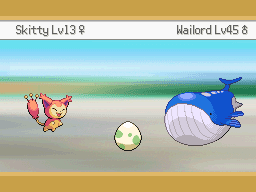
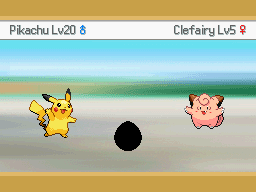
Essentials v20 compatible

diff --git a/Script.rb b/Script.rb
@@ -1,145 +1,229 @@
 #===============================================================================
-# * One screen Day-Care Checker item - by FL (Credits will be apreciated)
+# * Single Screen Day-Care Checker Item - by FL (Credits will be apreciated)
 #===============================================================================
 #
-# This script is for Pokémon Essentials. It makes an One screen Day-Care Checker
-# (like in DPP) activated by item. This display the pokémon sprite, names,
-# levels, genders and if them generate an egg.
+# This script is for Pokémon Essentials. It makes a single screen Day-Care 
+# Checker (like in DPP Pokétch) activated by item. This displays the pokémon
+# sprites, names, levels, genders and if they generated an egg.
 #
-#===============================================================================
+#== INSTALLATION ===============================================================
 #
-# To this script works, put it above main, put a 480x320 background in
-# DCCBACKPATH location and, like any item, you need to add in the "items.txt"
-# and in the script. There an example below using the name DAYCARESIGHT, but
-# you can use any other name changing the DCCITEM and the item that be added in
-# txt. You can change the internal number too:
+# To this script works, put it above main OR convert into a plugin. Put a 
+# 512x384 background in "Graphics/Pictures/day_care_checker_bg" and add into
+# PBS\items.txt:
 #
-# 631,DAYCARESIGHT,DayCare Sight,DayCare Sight,8,0,"A visor that can be use for see certains Pokémon in Day-Care to monitor their growth.",2,0,6
+# In Essentials version 20 or above:
+#
+#  [DAYCARESIGHT]
+#  Name = Day-Care Sight
+#  NamePlural = Day-Care Sights
+#  Pocket = 8
+#  Price = 0
+#  FieldUse = Direct
+#  Flags = KeyItem
+#  Description = A visor that can be use to see Pokémon in Day-Care to monitor their growth.
+#
+# In v16.2-v19.1:
+#
+#  631,DAYCARESIGHT,Day-Care Sight,Day-Care Sights,8,0,"A visor that can be use to see Pokémon in Day-Care to monitor their growth.",2,0,6
+#
+# In v15 or below:
+#
+#  631,DAYCARESIGHT,DayCare Sight,8,0,"A visor that can be use to see Pokémon in Day-Care to monitor their growth.",2,0,6
 #
 #===============================================================================
 
-DCCITEM=:DAYCARESIGHT # Change this and the item.txt if you wish another name
-DCCBACKPATH= "Graphics/Pictures/dccbackground" # You can change if you wish
-
-class DayCareCheckerScene 
-
-def startScene
-  @sprites={}
-  @viewport=Viewport.new(0,0,Graphics.width,Graphics.height)
-  @viewport.z=99999
-  @pkmn1=$PokemonGlobal.daycare[0][0]
-  @pkmn2=$PokemonGlobal.daycare[1][0]
-  # If you wish that if there only one pokémon, it became right
-  # positioned, them uncomment the four below lines
-  #if !@pkmn1 && @pkmn2
-  #  @pkmn1=@pkmn2
-  #  @pkmn2=nil
-  #end
-  textPositions=[]
-  baseColor=Color.new(12*8,12*8,12*8)
-  shadowColor=Color.new(26*8,26*8,25*8)
-  @sprites["background"]=IconSprite.new(0,0,@viewport)
-  @sprites["background"].setBitmap(DCCBACKPATH)
-  pokemonx = 104
-  pokemony=Graphics.height/2+32
-  if @pkmn1
-    @sprites["pokemon1"]=PokemonSprite.new(@viewport)
-    @sprites["pokemon1"].setPokemonBitmap(@pkmn1)
-    @sprites["pokemon1"].mirror=true
-    @sprites["pokemon1"].setOffset(PictureOrigin::Center)
-    @sprites["pokemon1"].x = pokemonx
-    @sprites["pokemon1"].y = pokemony
-    textPositions.push([_INTL("{1} Lv{2}{3}",@pkmn1.name,@pkmn1.level.to_s,
-        genderString(@pkmn1.gender)),32,44,false,baseColor,shadowColor])
-  end
-  if @pkmn2
-    @sprites["pokemon2"]=PokemonSprite.new(@viewport)
-    @sprites["pokemon2"].setPokemonBitmap(@pkmn2)
-    @sprites["pokemon2"].setOffset(PictureOrigin::Center)
-    @sprites["pokemon2"].x = Graphics.width-pokemonx
-    @sprites["pokemon2"].y = pokemony
-    textPositions.push([_INTL("{1} Lv{2}{3}",@pkmn2.name,@pkmn2.level.to_s,
-        genderString(@pkmn2.gender)),Graphics.width-16,44,true,baseColor,
-        shadowColor])
-  end
-  if Kernel.pbEggGenerated?
-    @sprites["egg"]=IconSprite.new(Graphics.width/2,pokemony-32,@viewport)
-    @sprites["egg"].setBitmap("Graphics/Battlers/egg")
-    # To works with different egg sprite sizes
-    @sprites["egg"].x-=(@sprites["egg"].bitmap.width/2)
-    # Uncomment the below line to only a egg shadow be show
-    #@sprites["egg"].color=Color.new(0,0,0,255) 
-  end
-  @sprites["overlay"]=Sprite.new(@viewport)
-  @sprites["overlay"].bitmap=BitmapWrapper.new(Graphics.width,Graphics.height)
-  pbSetSystemFont(@sprites["overlay"].bitmap)
-  if !textPositions.empty?
-    pbDrawTextPositions(@sprites["overlay"].bitmap,textPositions)
-  end
-  pbFadeInAndShow(@sprites) { update }
+if defined?(PluginManager) && !PluginManager.installed?("Day-Care Checker Item")
+  PluginManager.register({                                                 
+    :name    => "Day-Care Checker Item",                                        
+    :version => "1.1",                                                     
+    :link    => "https://www.pokecommunity.com/showthread.php?t=278209",             
+    :credits => "FL"
+  })
 end
 
-def genderString(gender)
-  ret="  "
-  if gender==0
-    ret=" ♂"
-  elsif gender==1
-    ret=" ♀"
-  end
-  return ret
-end 
+module DayCareChecker
+  # Item ID
+  ITEM = :DAYCARESIGHT
 
-def middleScene
-  loop do
-    Graphics.update
-    Input.update
-    self.update
-    if Input.trigger?(Input::B) || Input.trigger?(Input::C)
-      break
+  # When true and there are only one pokémon, it is always on the left.
+  FORCE_LEFT = false
+
+  # When true, only an egg shadow will be show.
+  EGG_SHADOW = false
+
+  def self.display
+    pbFadeOutIn(99999){
+      scene=Scene.new
+      screen=Screen.new(scene)
+      screen.start_screen
+    }
+  end
+
+  class Scene
+    def start_scene
+      @sprites={}
+      @viewport=Viewport.new(0,0,Graphics.width,Graphics.height)
+      @viewport.z=99999
+      @pokemon_array = [Bridge.day_care_pokemon(0),Bridge.day_care_pokemon(1)]
+      sprite_y = Graphics.height/2+32
+      if FORCE_LEFT && !@pokemon_array[0] && @pokemon_array[1]
+        @pokemon_array.delete_at(0)
+      end
+      text_positions=[]
+      @sprites["overlay"]=Sprite.new(@viewport)
+      @sprites["overlay"].bitmap=BitmapWrapper.new(Graphics.width,Graphics.height)
+      @sprites["overlay"].z = 1
+      pbSetSystemFont(@sprites["overlay"].bitmap)
+      @sprites["background"]=IconSprite.new(0,0,@viewport)
+      @sprites["background"].setBitmap("Graphics/Pictures/day_care_checker_bg")
+      @sprites["background"].x = (
+        Graphics.width-@sprites["background"].bitmap.width
+      )/2
+      @sprites["background"].y = (
+        Graphics.height-@sprites["background"].bitmap.height
+      )/2
+      for i in 0...2
+        draw_pokemon(i, sprite_y, text_positions) if @pokemon_array[i]
+      end
+      draw_egg(sprite_y) if Bridge.day_care_has_egg?
+      if !text_positions.empty?
+        Bridge.draw_text_positions(@sprites["overlay"].bitmap,text_positions)
+      end
+      pbFadeInAndShow(@sprites) { update }
+    end
+
+    def draw_pokemon(i,y,text_positions)
+      @sprites["pokemon#{i}"]=PokemonSprite.new(@viewport)
+      @sprites["pokemon#{i}"].setPokemonBitmap(@pokemon_array[i])
+      @sprites["pokemon#{i}"].mirror=true if i==0
+      set_center_offset(@sprites["pokemon#{i}"])
+      @sprites["pokemon#{i}"].x = i==0 ? 104 : Graphics.width-104
+      @sprites["pokemon#{i}"].y = y
+      assing_pokemon_text(
+        i, _INTL("{1} Lv{2}",@pokemon_array[i].name,@pokemon_array[i].level), 
+        @pokemon_array[i].gender, 20, 50, text_positions
+      )
+    end
+
+    def assing_pokemon_text(i, text, gender, x_padding, y, text_positions)
+      text_positions.push([
+        text, text_x(i, gender, x_padding),
+        y, i==1, Color.new(96, 96, 96),Color.new(168,184,184)
+      ])
+      if @pokemon_array[i].gender != 2
+        gender_text_size = @sprites["overlay"].bitmap.text_size(text).width
+        text_positions.push([
+          gender==0 ? "♂" : "♀", 
+          i==0 ? (x_padding+gender_text_size+8) : Graphics.width - x_padding, 
+          y, i==1,
+          gender==0 ? Color.new(0,128,248) : Color.new(248,24,24),
+          Color.new(168,184,184)
+        ])
+      end
+    end
+
+    def text_x(index, gender, padding)
+      ret = 0
+      if index==0
+        ret = padding
+      else
+        ret = Graphics.width - padding
+        ret-=20 if gender != 2
+      end
+      return ret
+    end
+
+    def draw_egg(y)
+      @sprites["egg"]=IconSprite.new(Graphics.width/2,y+48,@viewport)
+      @sprites["egg"].setBitmap(Bridge.egg_path)
+      set_center_offset(@sprites["egg"])
+      @sprites["egg"].color=Color.new(0,0,0,255) if EGG_SHADOW
+    end
+
+    def set_center_offset(sprite)
+      sprite.ox = sprite.bitmap.width/2 if sprite.bitmap
+      sprite.oy = sprite.bitmap.height/2 if sprite.bitmap
+    end
+
+    def main
+      loop do
+        Graphics.update
+        Input.update
+        self.update
+        if Input.trigger?(Input::B) || Input.trigger?(Input::C)
+          break
+        end
+      end
+    end
+
+    def update
+      pbUpdateSpriteHash(@sprites)
+    end
+
+    def end_scene
+      pbFadeOutAndHide(@sprites) { update }
+      pbDisposeSpriteHash(@sprites)
+      @viewport.dispose
+    end
+  end
+
+  class Screen
+    def initialize(scene)
+      @scene=scene
+    end
+
+    def start_screen
+      @scene.start_scene
+      @scene.main
+      @scene.end_scene
+    end
+  end
+
+  # Essentials multiversion layer
+  module Bridge
+    if defined?(Essentials)
+      MAJOR_VERSION = Essentials::VERSION.split(".")[0].to_i
+    else
+      MAJOR_VERSION = 0
+    end
+
+    module_function
+    
+    def draw_text_positions(bitmap,textpos)
+      if MAJOR_VERSION < 20
+        for single_text_pos in textpos
+          single_text_pos[2]-= MAJOR_VERSION==19 ? 12 : 6
+        end
+      end
+      return pbDrawTextPositions(bitmap,textpos)
+    end
+    
+    def egg_path
+       return "Graphics/Battlers/egg" if MAJOR_VERSION < 19
+       return "Graphics/Pokemon/Eggs/000"
+    end
+
+    def day_care_pokemon(index)
+      return $PokemonGlobal.daycare[index][0] if MAJOR_VERSION < 20
+      return nil if !$PokemonGlobal.day_care.slots[index]
+      return $PokemonGlobal.day_care.slots[index].pokemon
+    end
+
+    def day_care_has_egg?
+      return Kernel.pbEggGenerated? if MAJOR_VERSION < 20
+      return DayCare.egg_generated?
     end
   end
 end
 
-def update
-  pbUpdateSpriteHash(@sprites)
-end
 
-def endScene
-  pbFadeOutAndHide(@sprites) { update }
-  pbDisposeSpriteHash(@sprites)
-  @viewport.dispose
-end
-end
-
-class DayCareChecker
-
-def initialize(scene)
-  @scene=scene
-end
-
-def startScreen
-  @scene.startScene
-  @scene.middleScene
-  @scene.endScene
-end
-end
-
-# Item handlers
-
-ItemHandlers::UseInField.add(DCCITEM,proc { |item|
-  pbFadeOutIn(99999){
-    scene=DayCareCheckerScene.new
-    screen=DayCareChecker.new(scene)
-    screen.startScreen
-  }
+ItemHandlers::UseInField.add(DayCareChecker::ITEM,proc { |item|
+  DayCareChecker.display
   next 1 # Continue
 })
 
-ItemHandlers::UseFromBag.add(DCCITEM,proc { |item|
-  pbFadeOutIn(99999){
-    scene=DayCareCheckerScene.new
-    screen=DayCareChecker.new(scene)
-    screen.startScreen
-  }
+ItemHandlers::UseFromBag.add(DayCareChecker::ITEM,proc { |item|
+  DayCareChecker.display
   next 1 # Continue
 })

diff --git a/README.md b/README.md
@@ -1,11 +1,9 @@
 # Single Screen Day-Care Checker Item
-This script is for Pokémon Essentials. It makes a single screen Day-Care Checker (like in DPP Pokétch) activated by item. This display the pokémon sprite, names, levels, genders and if them generate an egg.
+This script is for Pokémon Essentials. It makes a single screen Day-Care Checker (like in DPP Pokétch) activated by item. This displays the pokémon sprites, names, levels, genders and if they generated an egg.
 
 ## Screens
+![](Screens/gif.gif)
 ![](Screens/screen.png)
-
-## Compatibility
-Doesn't work on Essentials version 19 and newer.
 
 ## Installation
 Follow the [Script](/Script.rb) instructions. The sample script files are in [Files folder](/Files).
